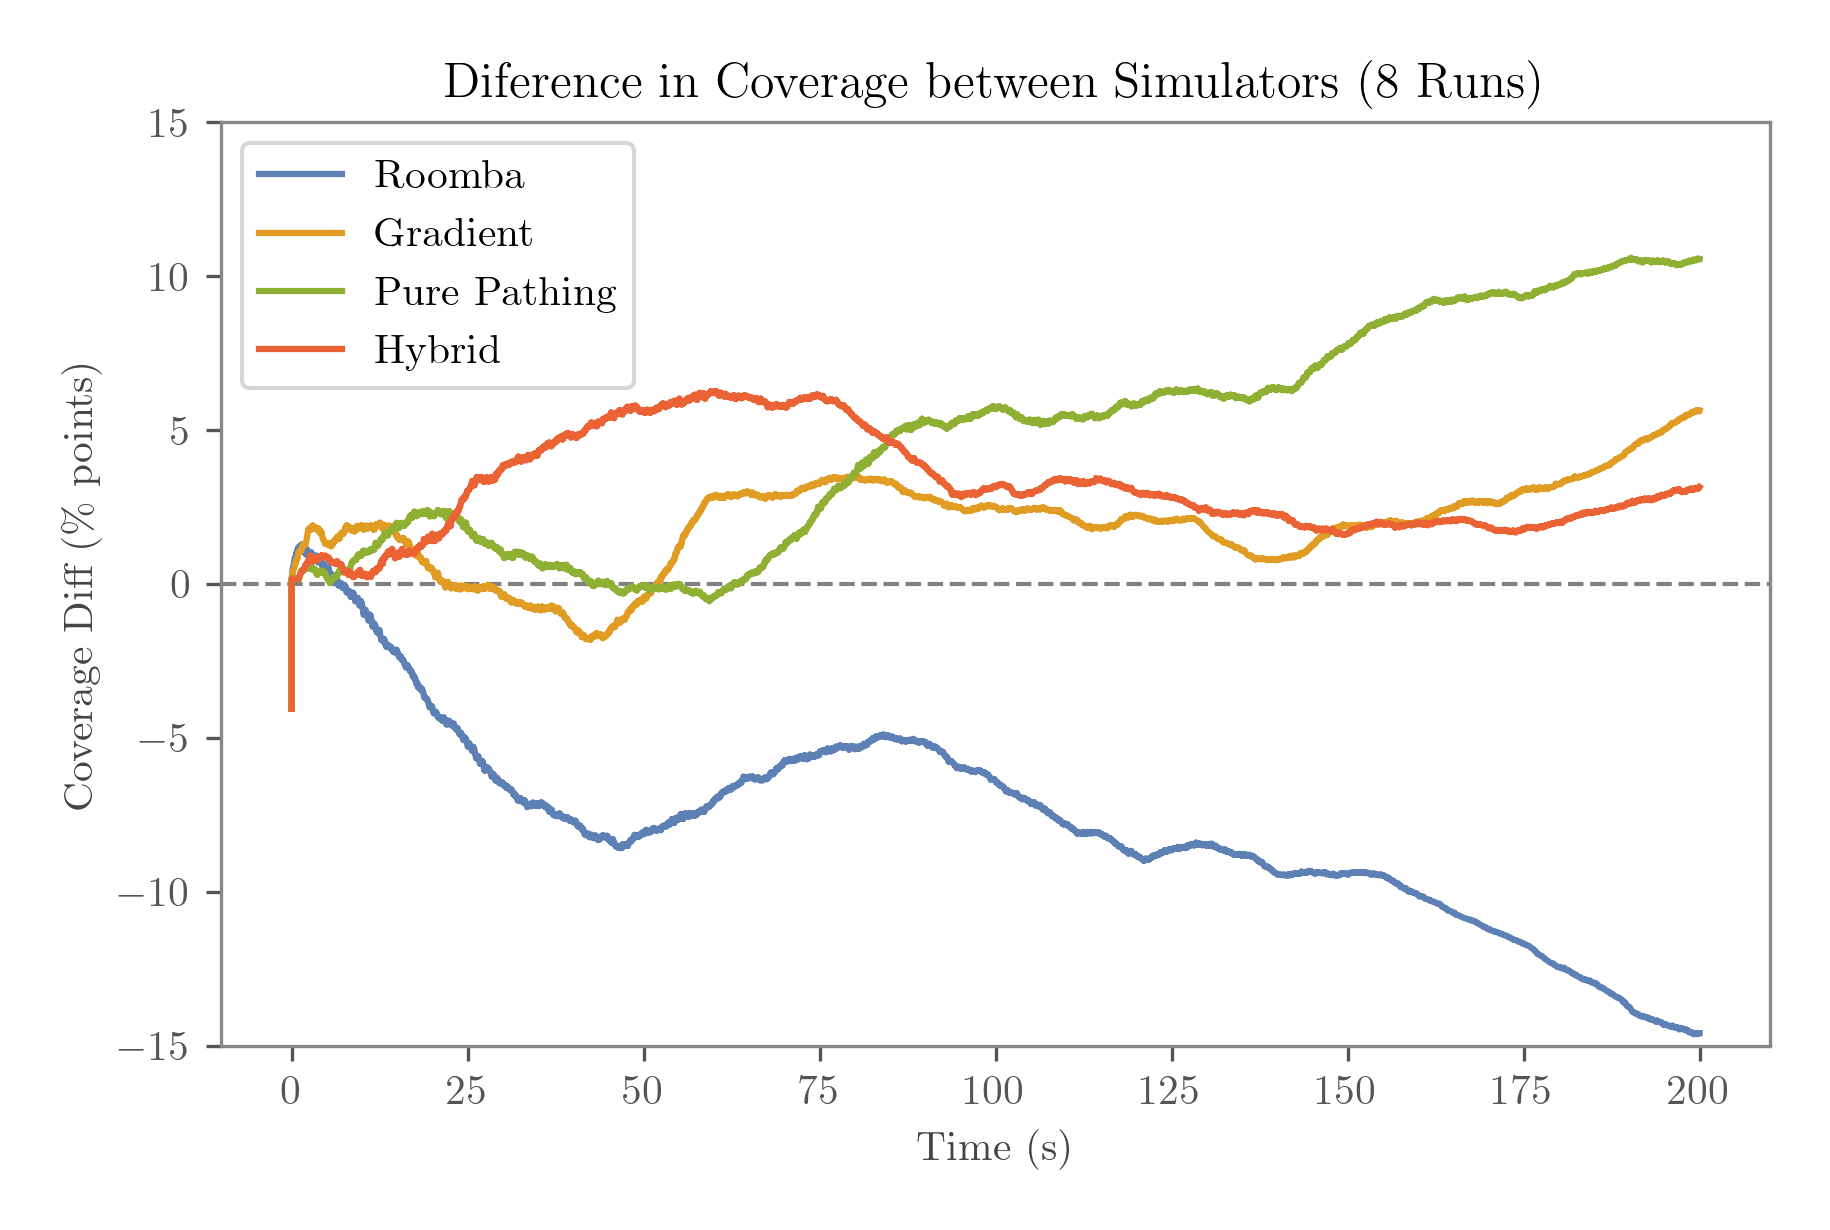
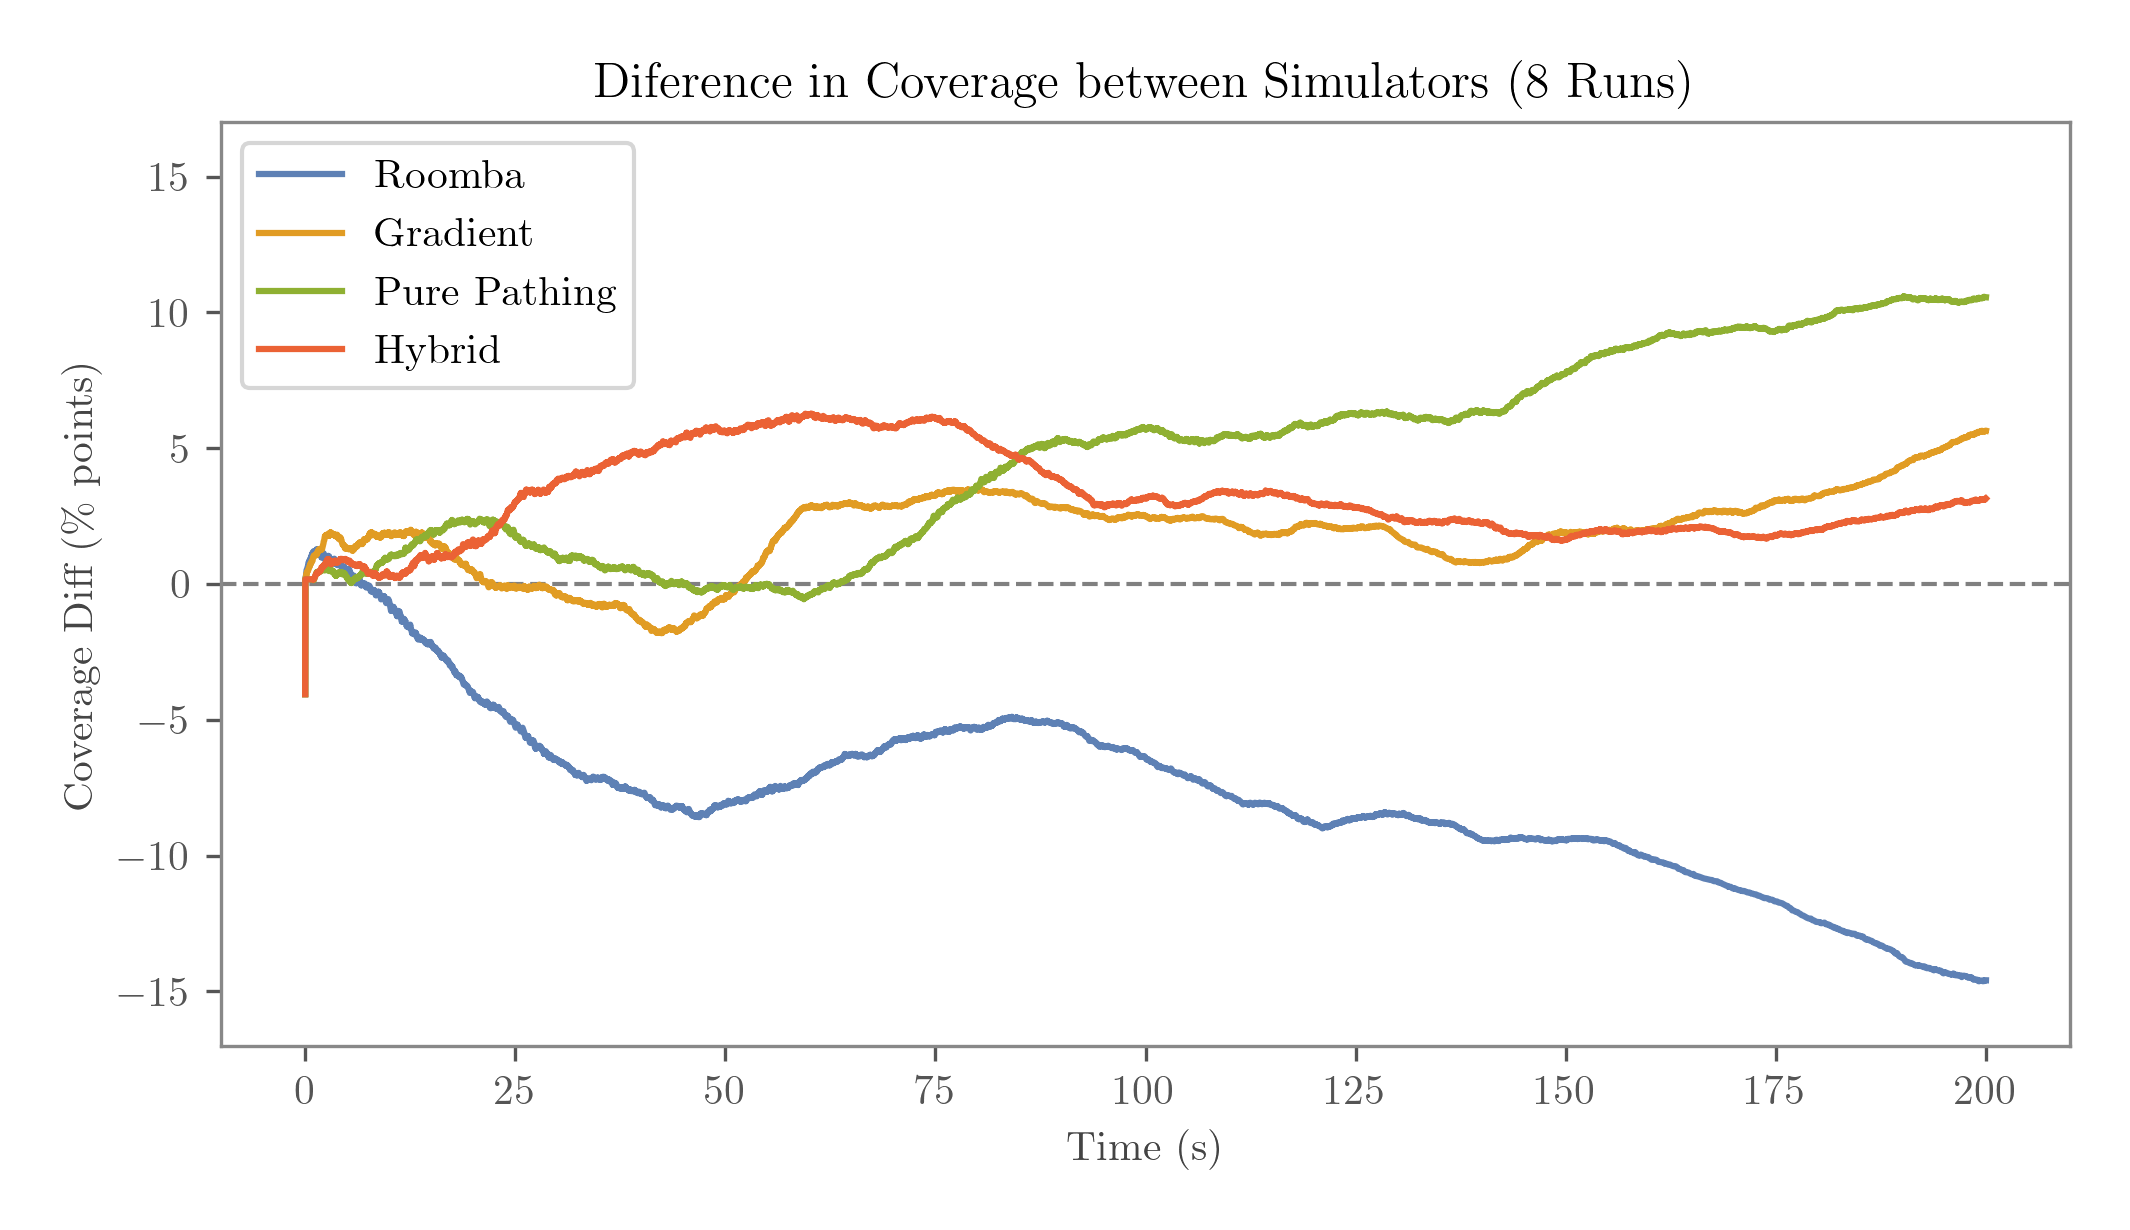
report: Longer diff plot

diff --git a/botplot/src/botplot/__init__.py b/botplot/src/botplot/__init__.py
@@ -836,7 +836,7 @@ def plot_coverage(
 
 def plot_avg_coverage_diff(results: list[tuple[pl.DataFrame, str]], title: str) -> str:
     file = os.path.join(plot_dir(), f"{title}.png")
-    fig, ax = plt.subplots(figsize=(6,4))
+    fig, ax = plt.subplots(figsize=(7,4))
     ax.axhline(0, color="gray", linestyle="--", linewidth=1)
     for df, behavior in results:
         ax.plot(df["time"], df["diff"], label=behavior)
@@ -845,7 +845,7 @@ def plot_avg_coverage_diff(results: list[tuple[pl.DataFrame, str]], title: str) 
     ax.set_xlabel(r"Time (s)")
     ax.set_ylabel(r"Coverage Diff (\% points)")
     ax.set_title(title)
-    ax.set_ylim([-15, 15])
+    ax.set_ylim([-17, 17])
     return save_figure(fig, file)
 
 
